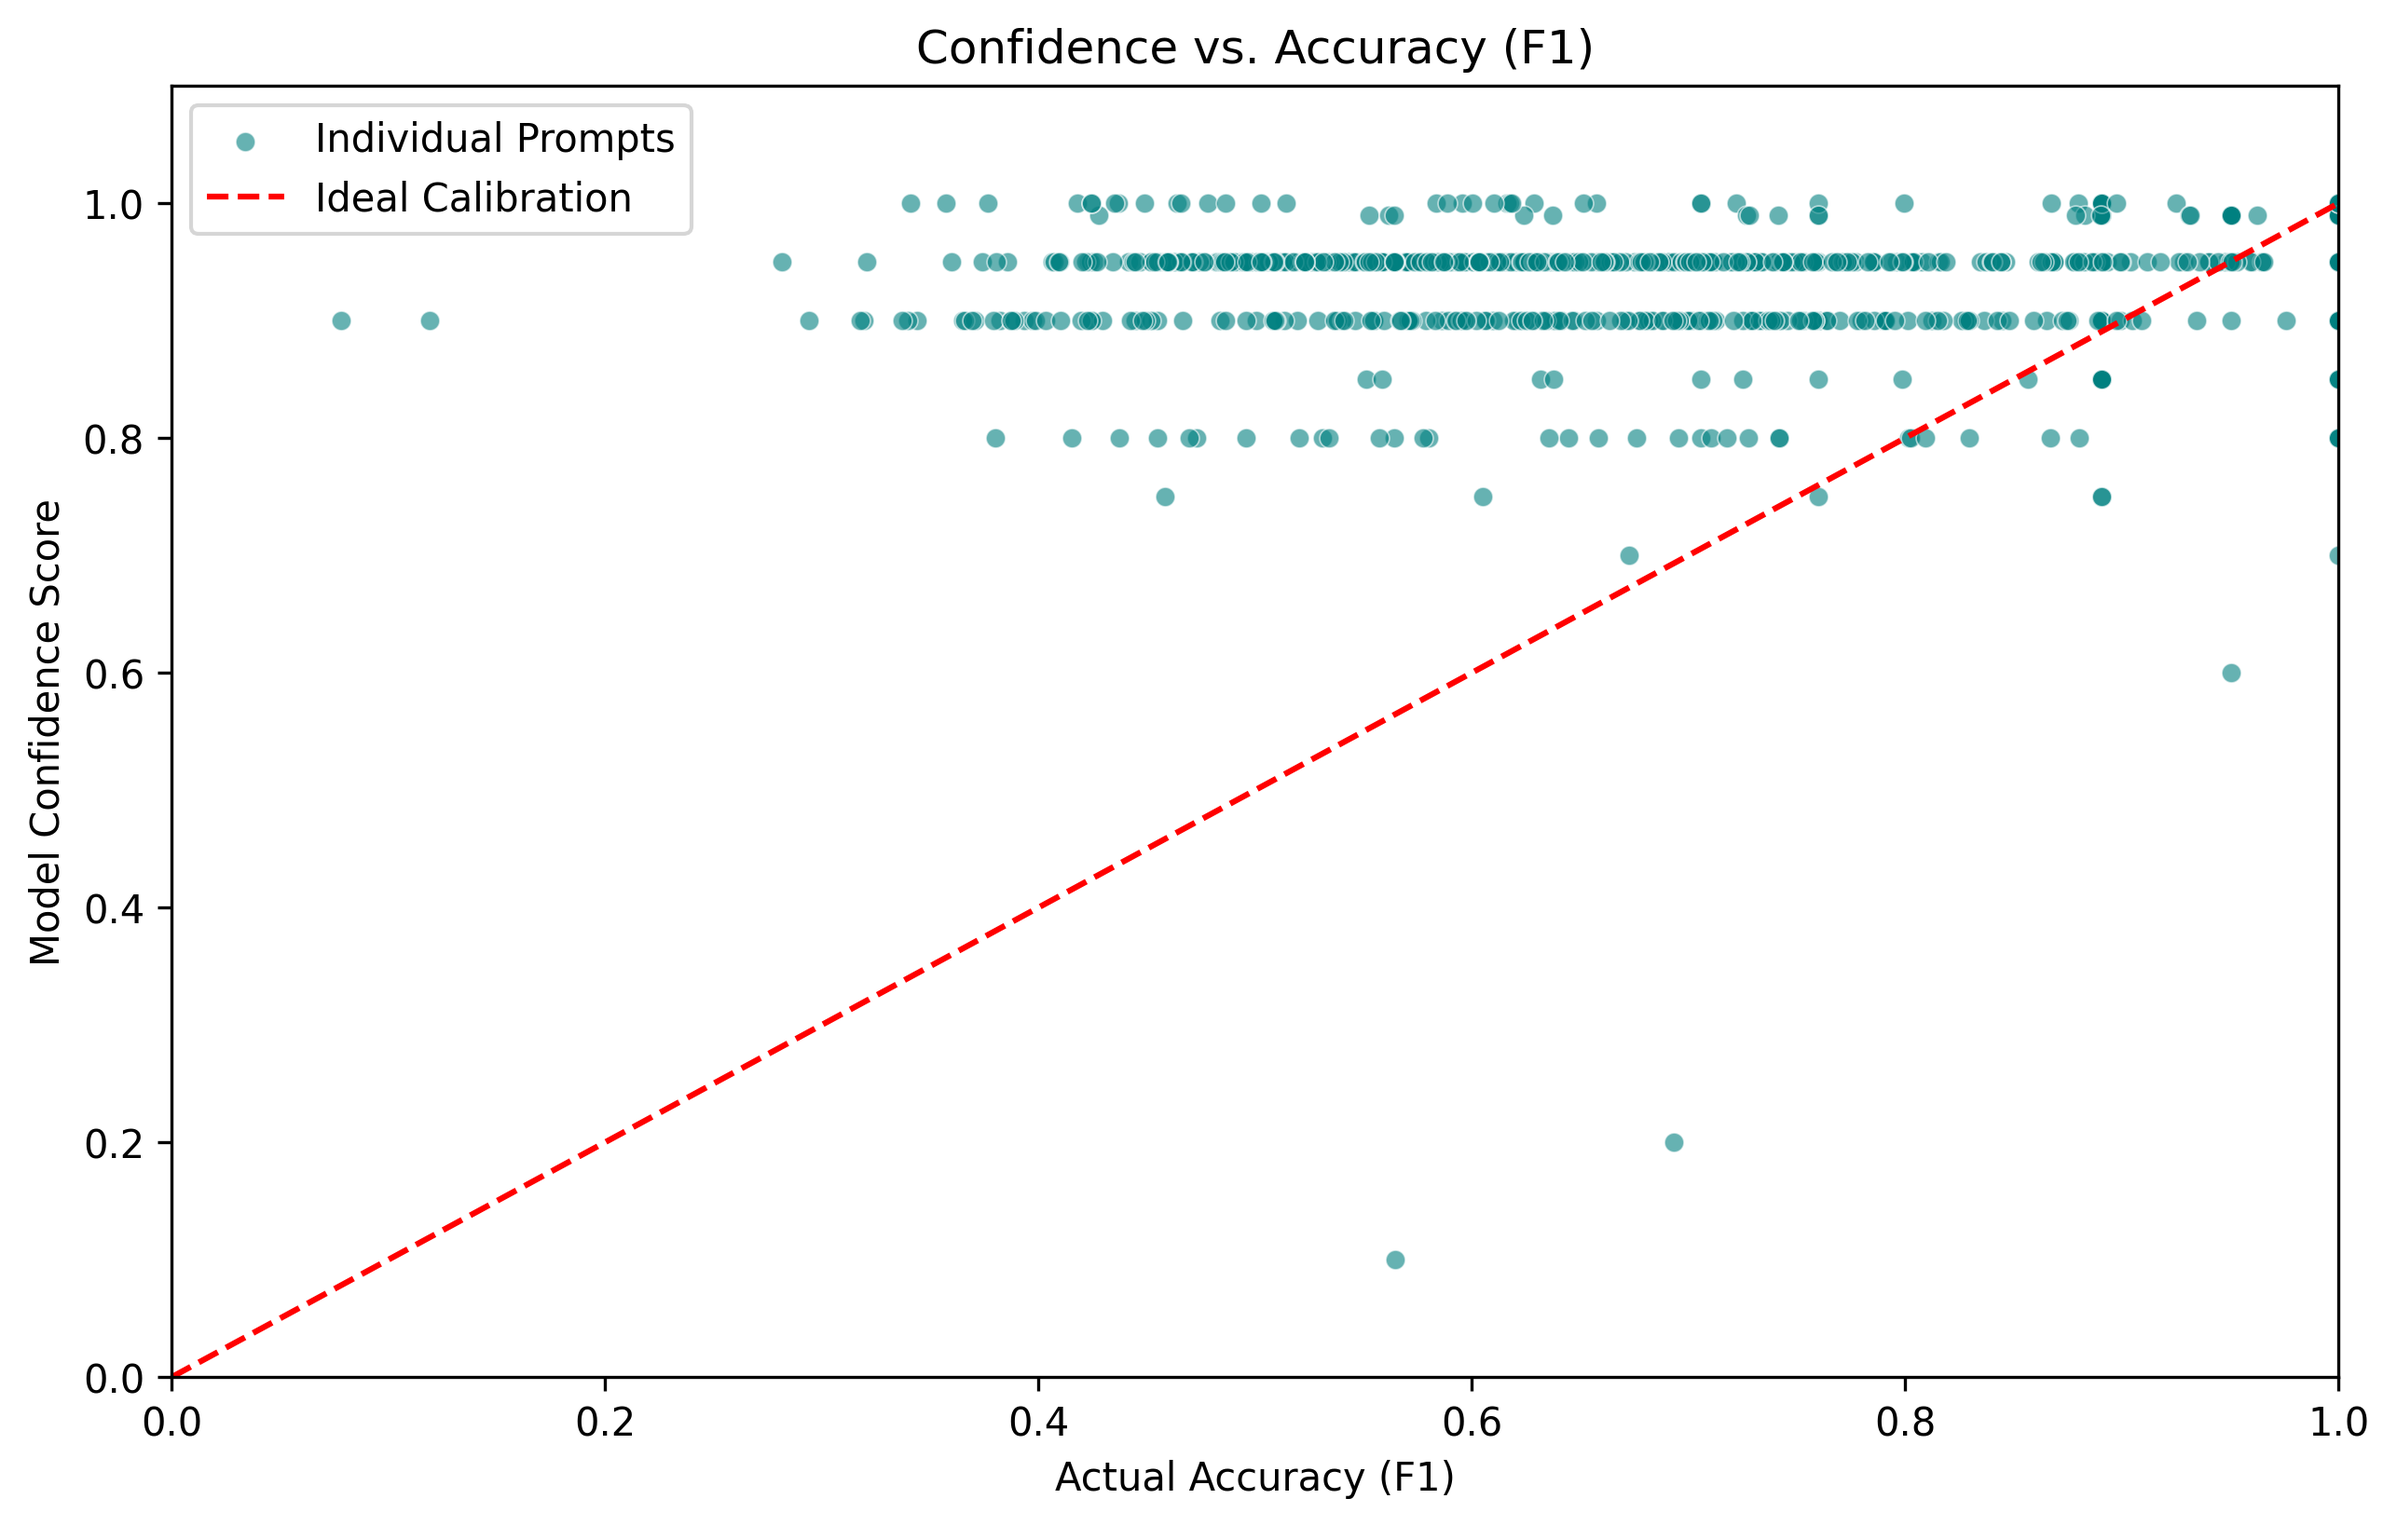
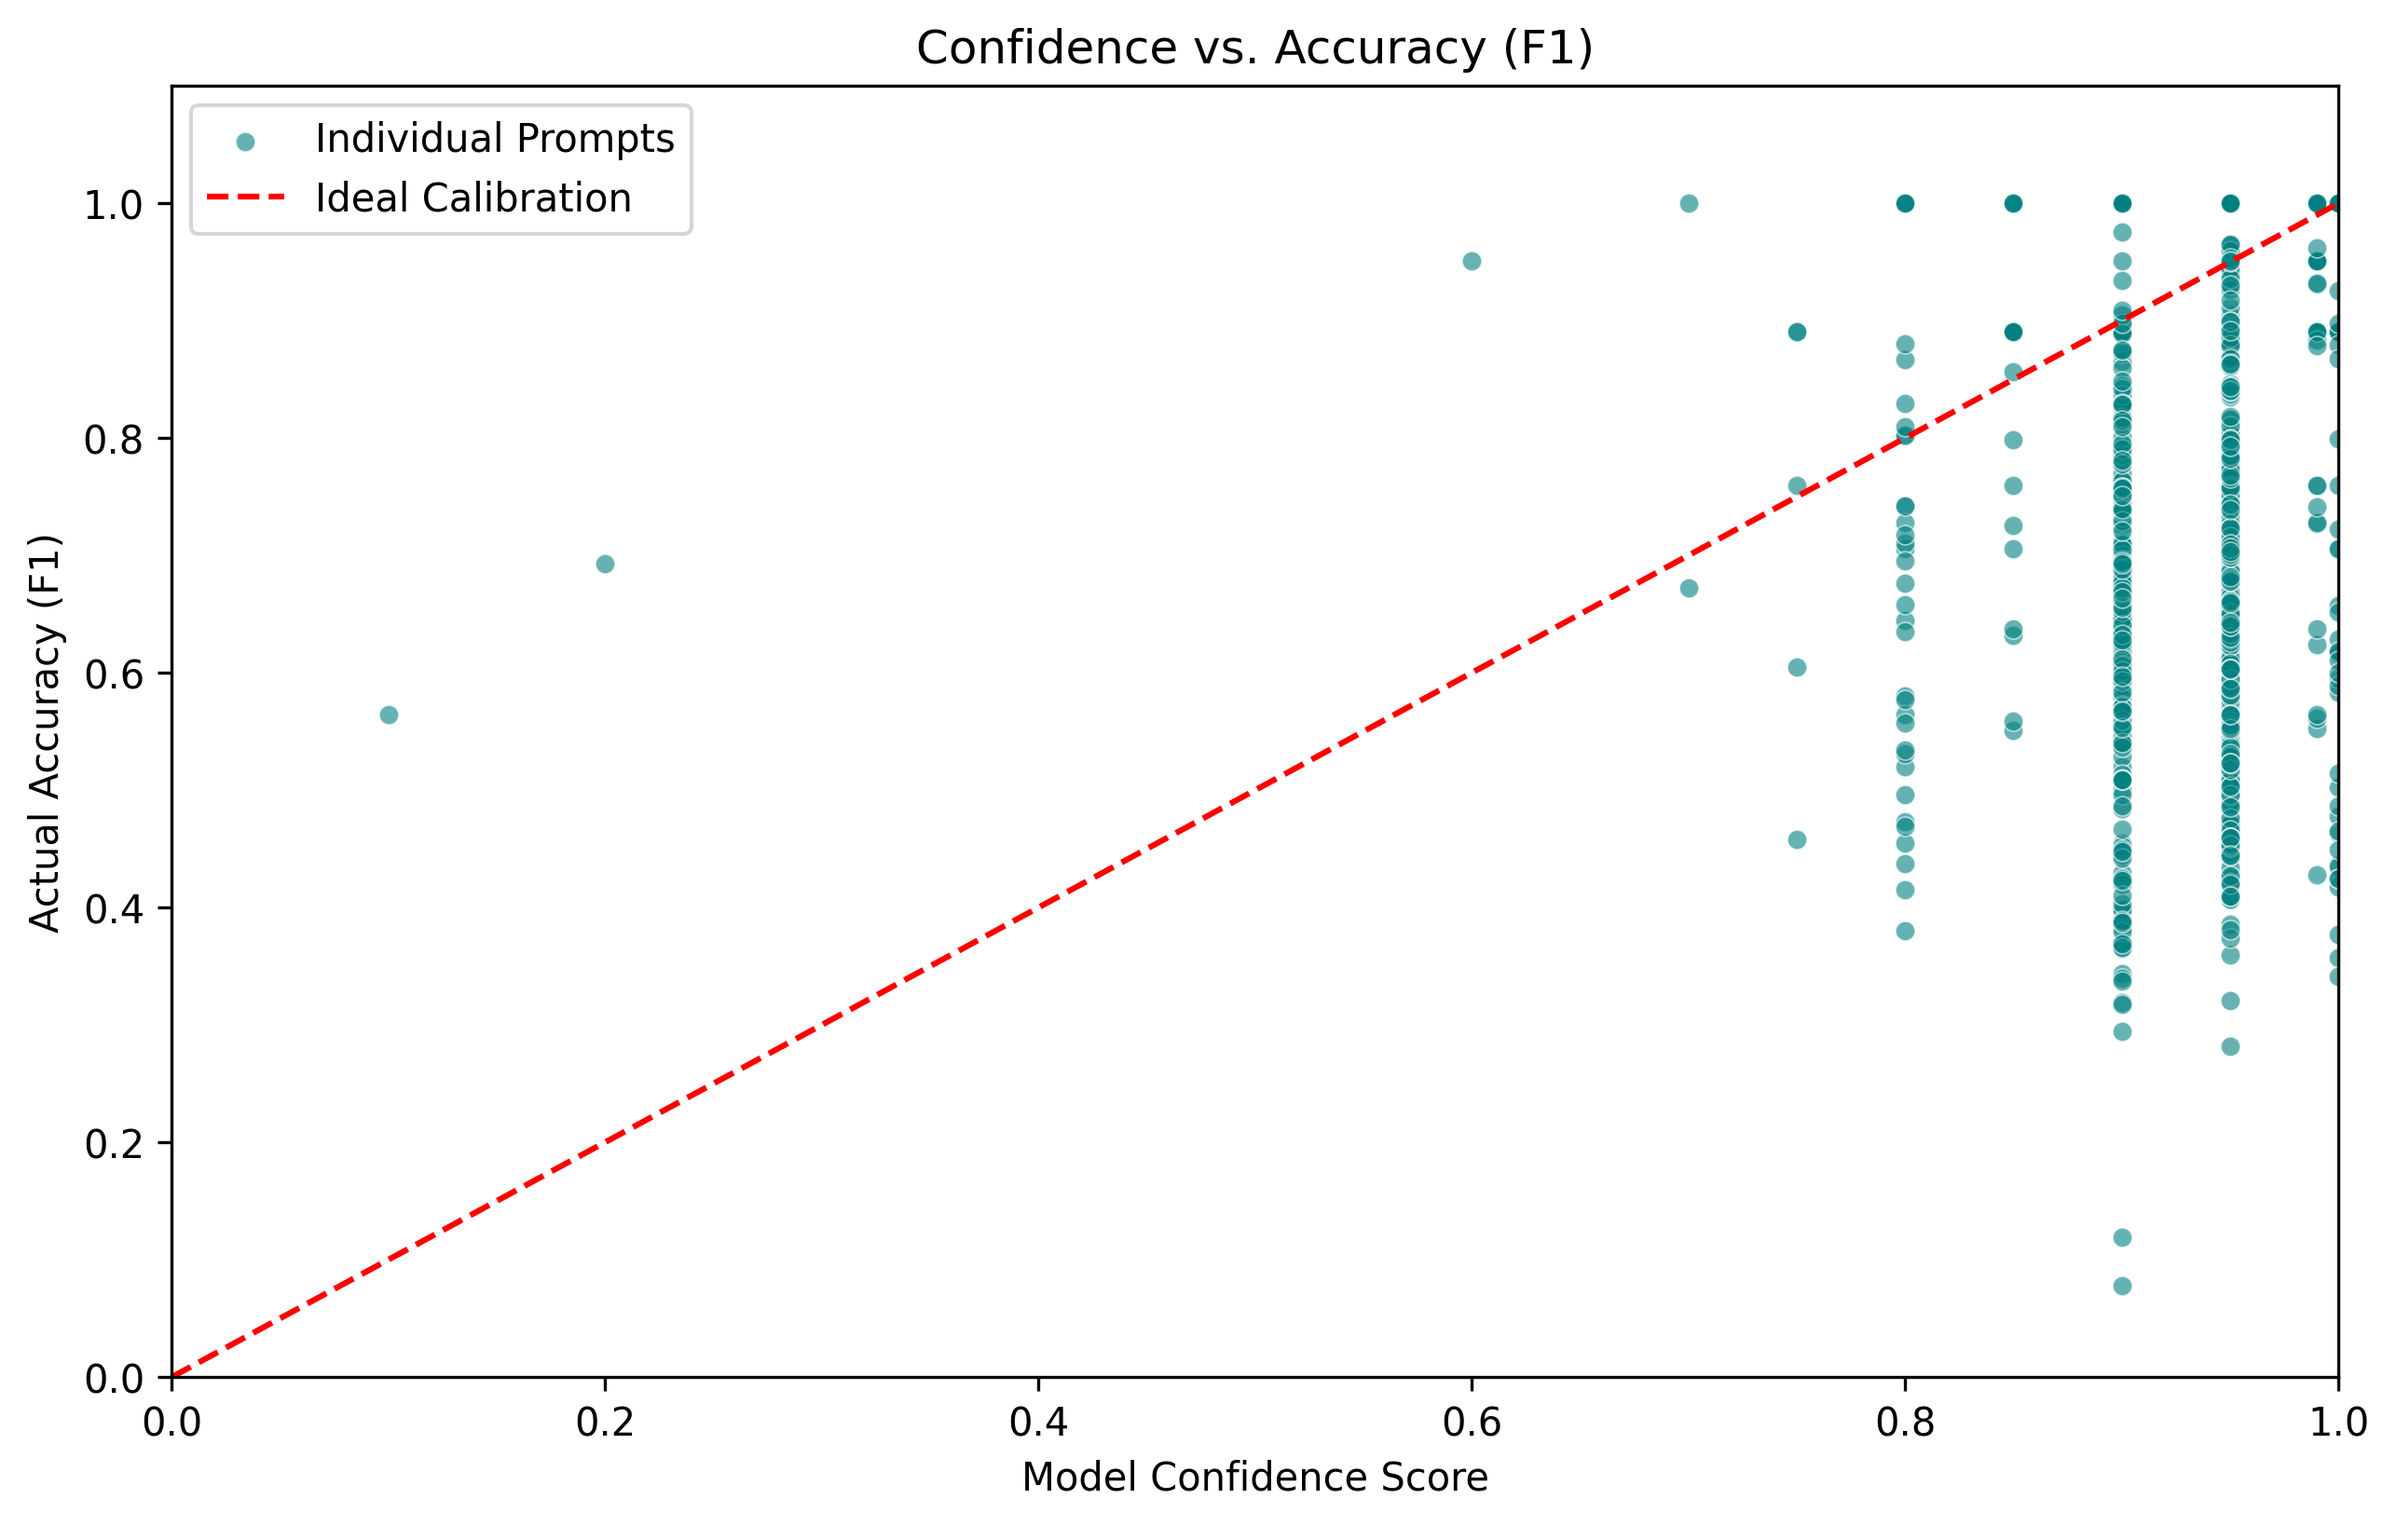
change axis on plots

diff --git a/evaluation_results/accuracy_vs_confidence.py b/evaluation_results/accuracy_vs_confidence.py
@@ -12,7 +12,7 @@ PROMPT_VERSION = sys.argv[1]
 FOLDER = sys.argv[2] #"llama"
 MODEL_NAME = sys.argv[3] #llama-3.1-8b-instant
 INPUT_FILE = f"{FOLDER}/{PROMPT_VERSION}_{MODEL_NAME}_metrics.csv"
-OUTPUT_CSV = f"plots/{FOLDER}/{PROMPT_VERSION}_{MODEL_NAME}_accuracy_vs_confidence.png"
+OUTPUT_CSV = f"plots/{FOLDER}/{PROMPT_VERSION}_{MODEL_NAME}_accuracy_vs_confidence_f1.png"
 
 # 1. Load your data
 df = pd.read_csv(INPUT_FILE)
@@ -24,7 +24,7 @@ plt.figure(figsize=(10, 6))
 
 # 2. Use a Scatterplot instead of Stripplot for continuous data
 # Adding 's' for size and 'alpha' for transparency helps if points overlap
-sns.scatterplot(data=df, y='confidence', x='f1', s=25, color='teal', alpha=0.6)
+sns.scatterplot(data=df, x='confidence', y='f1', s=25, color='teal', alpha=0.6)
 
 # 3. Draw the calibration line strictly from 0 to 1
 plt.plot([0, 1], [0, 1], linestyle='--', color='red', label='Ideal Calibration')
@@ -34,8 +34,8 @@ plt.xlim(0, 1)
 plt.ylim(0, 1.1)
 
 plt.title('Confidence vs. Accuracy (F1)')
-plt.ylabel('Model Confidence Score')
-plt.xlabel('Actual Accuracy (F1)')
+plt.xlabel('Model Confidence Score')
+plt.ylabel('Actual Accuracy (F1)')
 plt.legend(['Individual Prompts', 'Ideal Calibration'])
 
 plt.savefig(OUTPUT_CSV, dpi=300, bbox_inches='tight')
